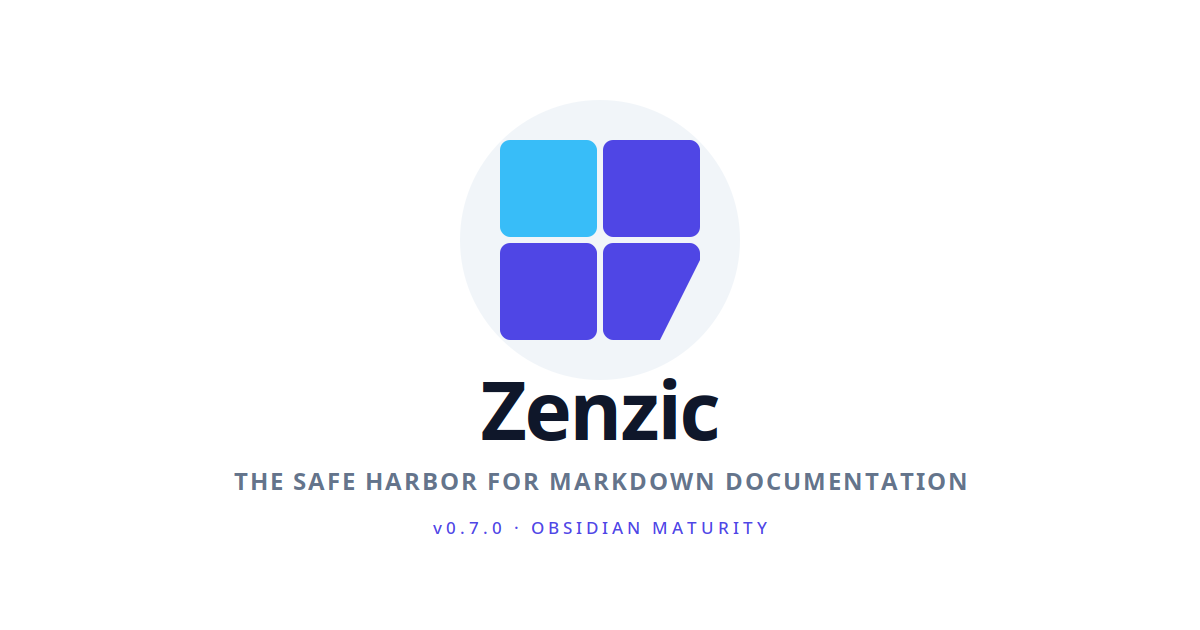
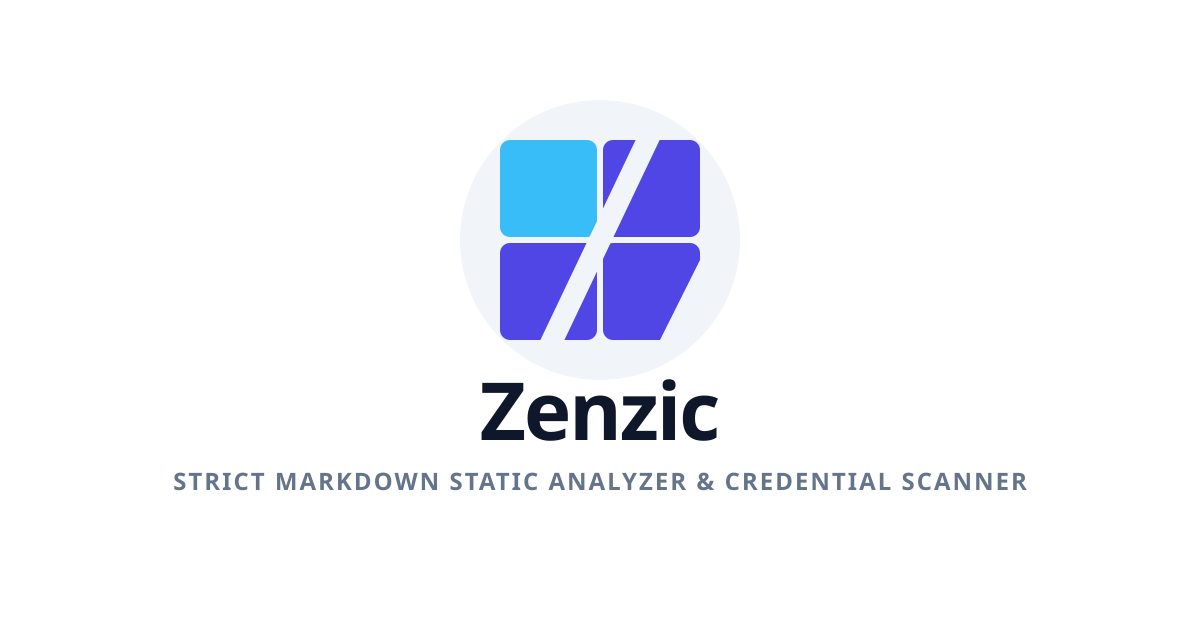
docs(brand): remediate brand system HTML and extend badge states
- Strip all version stamps from brand HTML (ADR-037 atemporalità)
- Replace theatrical subtitles with official definition:
  STRICT MARKDOWN STATIC ANALYZER & CREDENTIAL SCANNER
- Replace theatrical code aliases (Shield, Blood Sentinel, Seal) with
  canonical Z-code names from codes.py:
  Z201 CREDENTIAL_SECRET, Z202-203 PATH_TRAVERSAL_FATAL
- Fix private constant name _BLOOD → _CRITICAL (matches ui.py)
- Align CLI specimens to make_banner() / reporter.py exact output
- Add badge states matrix: audit (passing/failing) and score
  (indigo/amber/error) with semantic threshold annotations
- Add 3 new SVG badges: audit-failing, score-amber, score-fail
- Add REUSE .license files for all new SVG assets
- Restore brand HTML entry in .bumpversion.toml (CLI specimens
  contain version strings that must track current version)
- Remediate social-card SVGs: strip version tags, replace metaphors
- Update brand-system.mdx: add Badge States section with full
  state matrix (audit 2 states, score 3 states)

diff --git a/static/assets/brand/zenzic-brand-system.html b/static/assets/brand/zenzic-brand-system.html
@@ -3,7 +3,7 @@
 <head>
   <meta charset="UTF-8">
   <meta name="viewport" content="width=device-width, initial-scale=1.0">
-  <title>Zenzic · Brand System · v0.9.1</title>
+  <title>Zenzic · Brand System</title>
   <link rel="preconnect" href="https://fonts.googleapis.com">
   <link rel="preconnect" href="https://fonts.gstatic.com" crossorigin>
     <link href="https://fonts.googleapis.com/css2?family=Barlow+Condensed:ital,wght@0,300;0,600;0,700;1,300&family=IBM+Plex+Mono:ital,wght@0,400;0,500;1,400&family=Inter:wght@400;500;600;700&family=JetBrains+Mono:ital,wght@0,400;0,500;1,400&display=swap" rel="stylesheet">
@@ -165,16 +165,15 @@
   <!-- ══════════════════════════════════════
        DOCUMENT HEADER
   ══════════════════════════════════════ -->
-  <p class="page-title">Zenzic &middot; Brand System &middot; v0.9.1</p>
+  <p class="page-title">Zenzic &middot; Brand System</p>
 
 
   <!-- ══════════════════════════════════════
        LOGOMARK
        The Zenzic Artifact — four quadrants
        bisected by a diagonal slash.
-       Concept: two systems, one safe harbor.
        Harbor Cyan (top-left) meets
-       Sentinel Indigo (remaining quadrants).
+       Brand Indigo (remaining quadrants).
   ══════════════════════════════════════ -->
   <div class="card">
     <span class="section-title">Logomark &mdash; The Zenzic Artifact</span>
@@ -334,7 +333,7 @@
           </svg>
           <div style="border-left:1px solid var(--border);padding-left:16px">
             <div style="font-family:'IBM Plex Mono',monospace;font-size:22px;font-weight:500;color:#F8FAFC;letter-spacing:-0.03em;line-height:1">Zenzic</div>
-            <div style="font-family:'IBM Plex Mono',monospace;font-size:8px;color:#38bdf8;letter-spacing:0.2em;text-transform:uppercase;margin-top:5px">The Safe Harbor</div>
+            <div style="font-family:'IBM Plex Mono',monospace;font-size:8px;color:#38bdf8;letter-spacing:0.2em;text-transform:uppercase;margin-top:5px">STRICT MARKDOWN STATIC ANALYZER</div>
           </div>
         </div>
 
@@ -359,7 +358,7 @@
           </svg>
           <div style="border-left:1px solid #CBD5E1;padding-left:16px">
             <div style="font-family:'IBM Plex Mono',monospace;font-size:22px;font-weight:500;color:#0F172A;letter-spacing:-0.03em;line-height:1">Zenzic</div>
-            <div style="font-family:'IBM Plex Mono',monospace;font-size:8px;color:#4f46e5;letter-spacing:0.2em;text-transform:uppercase;margin-top:5px">The Safe Harbor</div>
+            <div style="font-family:'IBM Plex Mono',monospace;font-size:8px;color:#4f46e5;letter-spacing:0.2em;text-transform:uppercase;margin-top:5px">STRICT MARKDOWN STATIC ANALYZER</div>
           </div>
         </div>
 
@@ -397,7 +396,7 @@
 
   <!-- ══════════════════════════════════════
        SOCIAL CARD  1200 &times; 630
-       OG Image &mdash; "The Safe Harbor"
+       OG Image &mdash; 1200 &times; 630
        Dark base, quadrant mark, precision grid.
   ══════════════════════════════════════ -->
   <div>
@@ -446,22 +445,21 @@
 
         <!-- Wordmark -->
         <text x="600" y="442" font-family="system-ui,-apple-system,sans-serif" font-weight="800" font-size="82" fill="#f8fafc" text-anchor="middle" letter-spacing="-2">Zenzic</text>
-        <text x="600" y="492" font-family="ui-monospace,SFMono-Regular,monospace" font-weight="600" font-size="21" fill="#94a3b8" text-anchor="middle" letter-spacing="2">THE SAFE HARBOR FOR MARKDOWN DOCUMENTATION</text>
-        <text x="600" y="534" font-family="ui-monospace,SFMono-Regular,monospace" font-weight="500" font-size="16" fill="#38bdf8" text-anchor="middle" letter-spacing="4">v0.9.1</text>
+        <text x="600" y="492" font-family="ui-monospace,SFMono-Regular,monospace" font-weight="600" font-size="21" fill="#94a3b8" text-anchor="middle" letter-spacing="2">STRICT MARKDOWN STATIC ANALYZER &amp; CREDENTIAL SCANNER</text>
       </svg>
     </div>
   </div>
 
 
   <!-- ══════════════════════════════════════
-       SENTINEL PALETTE + TYPOGRAPHY
+       PALETTE + TYPOGRAPHY
   ══════════════════════════════════════ -->
   <div class="card" style="display:grid;grid-template-columns:1fr 1fr;gap:48px">
 
     <!-- Left: Palette -->
     <div>
       <span class="section-title">Sentinel Palette</span>
-      <p class="label" style="margin-bottom:8px;color:#a8b3fb">Palette v0.9.1 — Bimodal Indigo: Light #4338ca (AAA 7.9:1) · Dark #a8b3fb (AAA 9.9:1)</p>
+      <p class="label" style="margin-bottom:8px;color:#a8b3fb">Bimodal Indigo — Light #4338ca (AAA 7.9:1) &middot; Dark #a8b3fb (AAA 9.9:1)</p>
 
       <!-- Identity colors (from logomark) -->
       <p class="label" style="margin-bottom:12px">Identity</p>
@@ -494,7 +492,7 @@
         <div class="swatch">
           <div class="swatch-block" style="background:#FF2D73"></div>
           <div class="swatch-name">Magenta<br>#FF2D73</div>
-          <div class="swatch-role">Exit 2 &middot; Shield</div>
+          <div class="swatch-role">Exit 2 &middot; Z201</div>
         </div>
 
       </div>
@@ -538,7 +536,7 @@
       <div>
         <p style="font-size:9px;color:var(--muted);letter-spacing:0.18em;text-transform:uppercase;margin-bottom:10px;font-family:'IBM Plex Mono',monospace">Headings &middot; Inter 700</p>
         <p style="font-family:'Inter',system-ui,sans-serif;font-size:40px;font-weight:700;color:var(--lead);line-height:1;letter-spacing:-0.02em">Zenzic</p>
-        <p style="font-family:'Inter',system-ui,sans-serif;font-size:22px;font-weight:600;color:var(--cyan);letter-spacing:-0.01em;margin-top:6px">The Safe Harbor</p>
+        <p style="font-family:'Inter',system-ui,sans-serif;font-size:22px;font-weight:600;color:var(--cyan);letter-spacing:-0.01em;margin-top:6px">Strict Markdown Static Analyzer</p>
       </div>
 
       <!-- Body: Inter -->
@@ -551,7 +549,7 @@
       <!-- Code / UI: JetBrains Mono -->
       <div style="margin-top:22px">
         <p style="font-size:9px;color:var(--muted);letter-spacing:0.18em;text-transform:uppercase;margin-bottom:10px;font-family:'IBM Plex Mono',monospace">Code / UI &middot; JetBrains Mono</p>
-        <p style="font-family:'JetBrains Mono',monospace;font-size:13px;color:var(--lead);line-height:2">SENTINEL &middot; SHIELD &middot; HARBOR<br><span style="color:var(--cyan)">uvx zenzic check all ./docs</span><br><span style="color:var(--muted)">v0.9.1 &middot; exit 0</span></p>
+        <p style="font-family:'JetBrains Mono',monospace;font-size:13px;color:var(--lead);line-height:2">Markdown static analyzer &amp; credential scanner<br><span style="color:var(--cyan)">uvx zenzic check all ./docs</span><br><span style="color:var(--muted)">v0.9.1 &middot; exit 0</span></p>
       </div>
 
       <!-- Scale -->
@@ -633,14 +631,14 @@
           <td style="padding:6px 8px"><span style="color:#4f46e5;font-weight:600">BRAND</span></td>
           <td style="padding:6px 8px">_INDIGO</td>
           <td style="padding:6px 8px">#4f46e5</td>
-          <td style="padding:6px 8px">Sentinel banner, panel borders, primary accent</td>
+          <td style="padding:6px 8px">Startup banner, panel borders, primary accent</td>
           <td style="padding:6px 8px">&mdash;</td>
         </tr>
         <tr style="border-bottom:1px solid var(--rule)">
           <td style="padding:6px 8px"><span style="color:#10b981;font-weight:600">SUCCESS</span></td>
           <td style="padding:6px 8px">_EMERALD</td>
           <td style="padding:6px 8px">#10b981</td>
-          <td style="padding:6px 8px">Clean check, ✨ Zenzic Seal, pass findings</td>
+          <td style="padding:6px 8px">Clean check &mdash; exit 0, no findings</td>
           <td style="padding:6px 8px">0</td>
         </tr>
         <tr style="border-bottom:1px solid var(--rule)">
@@ -666,9 +664,9 @@
         </tr>
         <tr>
           <td style="padding:6px 8px"><span style="color:#f87171;font-weight:700">FATAL</span></td>
-          <td style="padding:6px 8px">_BLOOD</td>
+          <td style="padding:6px 8px">_CRITICAL</td>
           <td style="padding:6px 8px">#8b0000</td>
-          <td style="padding:6px 8px"><strong style="color:#f87171">Security incidents only</strong> &mdash; Shield (Z201) and Blood Sentinel (Z202&ndash;203)</td>
+          <td style="padding:6px 8px"><strong style="color:#f87171">Security incidents only</strong> &mdash; Z201 CREDENTIAL_SECRET and Z202&ndash;203 PATH_TRAVERSAL_FATAL</td>
           <td style="padding:6px 8px">2 / 3</td>
         </tr>
       </tbody>
@@ -677,7 +675,7 @@
     <p style="font-family:'IBM Plex Mono',monospace;font-size:10px;color:var(--muted);margin-top:14px;line-height:1.8">
       <strong style="color:var(--lead)">Law:</strong> External code must reference semantic names only
       (<code>ZenzicPalette.BRAND</code>, <code>.SUCCESS</code>, &hellip;).
-      Private hex constants (<code>_INDIGO</code>, <code>_BLOOD</code>, &hellip;) are internal implementation details.
+      Private hex constants (<code>_INDIGO</code>, <code>_CRITICAL</code>, &hellip;) are internal implementation details.
       *WARNING exits as 1 under <code>--strict</code>.
     </p>
   </div>
@@ -700,7 +698,7 @@
           and <strong style="color:var(--lead)">stderr</strong> flows through a single class:
           <code>zenzic.core.ui.ZenzicPalette</code>.
           No hex value is hardcoded outside of that class &mdash; not in report templates, not in
-          scanner output, not in the Sentinel banner.
+          scanner output, not in the startup banner.
         </p>
         <p style="font-family:'IBM Plex Mono',monospace;font-size:11px;color:var(--muted);line-height:1.9">
           When you read a Zenzic terminal output, you are reading a semantically governed document.
@@ -713,8 +711,8 @@
       <div>
         <p style="font-family:'IBM Plex Mono',monospace;font-size:9px;color:var(--muted);letter-spacing:0.18em;text-transform:uppercase;margin-bottom:10px">CLI Output &mdash; Color Mapping</p>
         <div style="background:#09090b;border:1px solid var(--border);border-radius:3px;padding:16px;font-family:'JetBrains Mono',monospace;font-size:11px;line-height:2.1">
-          <span style="color:#4f46e5">&#9646; ZENZIC SENTINEL v0.9.1</span><br>
-          <span style="color:#10b981">&#10024; Zenzic Seal: All checks passed.</span><br>
+          <span style="color:#4f46e5">&#9646; ZENZIC v0.9.1</span><br>
+          <span style="color:#10b981">&#10024; All statically-detectable links, credentials, and references verified.</span><br>
           <span style="color:#f59e0b">&#9888;  WARNING  docs/guide.md:14</span><br>
           <span style="color:#f43f5e">&#10007;  ERROR    docs/api.md:88</span><br>
           <span style="color:#64748b">    23 files &middot; 0.8 s &middot; exit 1</span><br>
@@ -745,12 +743,12 @@
 
 
   <!-- ══════════════════════════════════════
-       BLOOD SENTINEL NOTE
+       BLOOD NOTE
        FATAL (#8b0000) — reserved exclusively
        for security incidents.
   ══════════════════════════════════════ -->
   <div style="border:1px solid #8b0000;border-left:4px solid #8b0000;border-radius:3px;padding:28px 32px;background:#09090b">
-    <span class="section-title" style="color:#f87171">Blood Sentinel &mdash; FATAL (#8b0000)</span>
+    <span class="section-title" style="color:#f87171">Z202&ndash;203 PATH_TRAVERSAL_FATAL &mdash; FATAL (#8b0000)</span>
 
     <p style="font-family:'IBM Plex Mono',monospace;font-size:12px;color:#f87171;font-weight:600;margin-bottom:16px">
       This color is reserved exclusively for security incidents. It may never be repurposed.
@@ -763,13 +761,13 @@
 
     <ul style="font-family:'IBM Plex Mono',monospace;font-size:11px;color:var(--muted);line-height:2;list-style:none;padding:0;margin-bottom:20px">
       <li style="border-left:2px solid #8b0000;padding-left:14px;margin-bottom:10px">
-        <strong style="color:#f87171">The Shield (Z201)</strong> &mdash; detects a known credential pattern
+        <strong style="color:#f87171">Z201 CREDENTIAL_SECRET</strong> &mdash; detects a known credential pattern
         (AWS key, GitHub token, Stripe secret, OpenAI key, and 5 others) embedded in a reference URL.
         Exits with code <strong style="color:#f87171">2</strong>.
         Never suppressed by <code>--exit-zero</code>.
       </li>
       <li style="border-left:2px solid #8b0000;padding-left:14px">
-        <strong style="color:#f87171">Blood Sentinel (Z202&ndash;203)</strong> &mdash; detects a link resolving
+        <strong style="color:#f87171">Z202&ndash;203 PATH_TRAVERSAL / PATH_TRAVERSAL_FATAL</strong> &mdash; detects a link resolving
         to an OS system directory (<code>/etc/</code>, <code>/root/</code>, <code>/var/</code>,
         <code>/proc/</code>, <code>/sys/</code>, <code>/usr/</code>).
         Exits with code <strong style="color:#f87171">3</strong>.
@@ -783,7 +781,7 @@
         <strong style="color:#f87171">Design invariant for builders:</strong>
         If you build a tool or plugin for Zenzic and need to signal a security event,
         use <code>ZenzicPalette.FATAL</code>. If you use it for anything else, you are
-        violating the semantic contract of the Sentinel color system.
+        violating the semantic contract of the ZenzicPalette color system.
         <em>One color. One meaning. Non-negotiable.</em>
       </p>
     </div>
@@ -891,23 +889,66 @@
     <span class="section-title">Official Badges</span>
     <span class="label">Static SVG &middot; for offline / enterprise deployments &middot; included in brand-kit.zip</span>
 
-    <div class="badge-row">
+    <div style="display:flex;flex-direction:column;gap:32px">
 
-      <div class="badge-item">
-        <a href="https://github.com/PythonWoods/zenzic" style="display:block">
-          <img src="svg/zenzic-badge-audit.svg" alt="Zenzic Audit badge" width="135" height="20" style="display:block">
-        </a>
-        <span class="label-inline">Audit &middot; Binary gate: passing / failing</span>
+      <!-- ── Audit badge ── -->
+      <div>
+        <p style="font-family:'IBM Plex Mono',monospace;font-size:9px;color:var(--muted);letter-spacing:0.18em;text-transform:uppercase;margin-bottom:16px">Audit Badge &mdash; Binary gate</p>
+        <div class="badge-row">
+
+          <div class="badge-item">
+            <a href="https://github.com/PythonWoods/zenzic" style="display:block">
+              <img src="svg/zenzic-badge-audit.svg" alt="Zenzic Audit badge: passing" width="135" height="20" style="display:block">
+            </a>
+            <span class="label-inline" style="color:var(--indigo-dark)">passing</span>
+            <span class="label-inline">exit 0 &mdash; no blocking findings</span>
+          </div>
+
+          <div class="badge-item">
+            <a href="https://github.com/PythonWoods/zenzic" style="display:block">
+              <img src="svg/zenzic-badge-audit-failing.svg" alt="Zenzic Audit badge: failing" width="135" height="20" style="display:block">
+            </a>
+            <span class="label-inline" style="color:#f43f5e">failing</span>
+            <span class="label-inline">exit 1 / 2 / 3 &mdash; blocking findings present</span>
+          </div>
+
+        </div>
       </div>
 
-      <div class="badge-item">
-        <a href="https://github.com/PythonWoods/zenzic" style="display:block">
-          <img src="svg/zenzic-badge-score.svg" alt="Zenzic Score badge" width="135" height="20" style="display:block">
-        </a>
-        <span class="label-inline">Score &middot; Quality metric 0–100</span>
+      <!-- ── Score badge ── -->
+      <div>
+        <p style="font-family:'IBM Plex Mono',monospace;font-size:9px;color:var(--muted);letter-spacing:0.18em;text-transform:uppercase;margin-bottom:16px">Score Badge &mdash; Quality metric 0&ndash;100</p>
+        <div class="badge-row">
+
+          <div class="badge-item">
+            <a href="https://github.com/PythonWoods/zenzic" style="display:block">
+              <img src="svg/zenzic-badge-score.svg" alt="Zenzic Score badge: 100/100" width="135" height="20" style="display:block">
+            </a>
+            <span class="label-inline" style="color:var(--indigo-dark)">score = 100</span>
+            <span class="label-inline">BRAND indigo &mdash; perfect score</span>
+          </div>
+
+          <div class="badge-item">
+            <a href="https://github.com/PythonWoods/zenzic" style="display:block">
+              <img src="svg/zenzic-badge-score-amber.svg" alt="Zenzic Score badge: 87/100" width="135" height="20" style="display:block">
+            </a>
+            <span class="label-inline" style="color:#f59e0b">fail_under &lt; score &lt; 100</span>
+            <span class="label-inline">WARNING amber &mdash; advisory, not blocking</span>
+          </div>
+
+          <div class="badge-item">
+            <a href="https://github.com/PythonWoods/zenzic" style="display:block">
+              <img src="svg/zenzic-badge-score-fail.svg" alt="Zenzic Score badge: 54/100" width="135" height="20" style="display:block">
+            </a>
+            <span class="label-inline" style="color:#f43f5e">score &lt; fail_under</span>
+            <span class="label-inline">ERROR rose &mdash; gate fails, exit 1</span>
+          </div>
+
+        </div>
       </div>
 
     </div>
+
 
     <div style="margin-top:24px;border-top:1px solid var(--rule);padding-top:20px">
       <p style="font-family:'IBM Plex Mono',monospace;font-size:11px;color:var(--muted);line-height:1.8">Dynamic variants via Shields.io &rarr; see <a href="https://zenzic.dev/docs/how-to/add-badges/" style="color:var(--cyan);text-decoration:none">zenzic.dev/docs/how-to/add-badges/</a></p>
@@ -950,7 +991,7 @@
         <p style="font-family:'Barlow Condensed',sans-serif;font-size:13px;font-weight:600;letter-spacing:0.15em;text-transform:uppercase;color:var(--muted);margin-bottom:10px">Voice</p>
         <ul style="font-family:'IBM Plex Mono',monospace;font-size:11px;color:var(--muted);line-height:2;list-style:none;padding:0">
           <li>&mdash;&nbsp; Surgical precision, never vague</li>
-          <li>&mdash;&nbsp; "The Safe Harbor", not "the linter"</li>
+          <li>&mdash;&nbsp; "Static analyzer", not "the linter"</li>
           <li>&mdash;&nbsp; Exit codes, not "errors"</li>
           <li>&mdash;&nbsp; Findings with Z-codes, always</li>
           <li>&mdash;&nbsp; Silent on success, loud on failure</li>
@@ -996,7 +1037,7 @@
             <div style="width:36px;height:36px;border-radius:4px;background:#8b0000;flex-shrink:0"></div>
             <div>
               <p style="font-family:'IBM Plex Mono',monospace;font-size:10px;color:#e4e4e7;margin-bottom:2px"><strong>Sangue Profondo</strong> &mdash; #8b0000</p>
-              <p style="font-family:'IBM Plex Mono',monospace;font-size:9px;color:#71717a">--zenzic-fatal-deep · Blood Sentinel &amp; Security</p>
+              <p style="font-family:'IBM Plex Mono',monospace;font-size:9px;color:#71717a">--zenzic-fatal-deep &middot; Z202&ndash;203 PATH_TRAVERSAL_FATAL</p>
             </div>
           </div>
         </div>
@@ -1105,7 +1146,7 @@
           <td style="padding:6px 8px"><code>--zenzic-fatal</code></td>
           <td style="padding:6px 8px"><span style="color:#f87171">#8b0000</span></td>
           <td style="padding:6px 8px"><span style="color:#991b1b">#991b1b</span></td>
-          <td style="padding:6px 8px">Blood Sentinel, security findings, Shield</td>
+          <td style="padding:6px 8px">Z201&ndash;203 security findings, credential &amp; path traversal</td>
         </tr>
       </tbody>
     </table>
@@ -1142,8 +1183,8 @@
     <p style="font-family:'IBM Plex Mono',monospace;font-size:11px;color:var(--muted);line-height:1.9;max-width:720px;margin-bottom:28px">
       Cumulative Layout Shift (CLS) degrades perceived performance and is penalised by Core Web Vitals.
       Every image, SVG, and icon in the Zenzic documentation site must carry explicit dimensions so the
-      browser reserves the correct space before the asset loads. <strong style="color:var(--lead)">A Porto Sicuro
-      does not jump.</strong>
+      browser reserves the correct space before the asset loads. <strong style="color:var(--lead)">A static
+      analyzer must not produce dynamic layout regressions.</strong>
     </p>
 
     <table style="width:100%;border-collapse:collapse;font-family:'IBM Plex Mono',monospace;font-size:11px;margin-bottom:28px">
